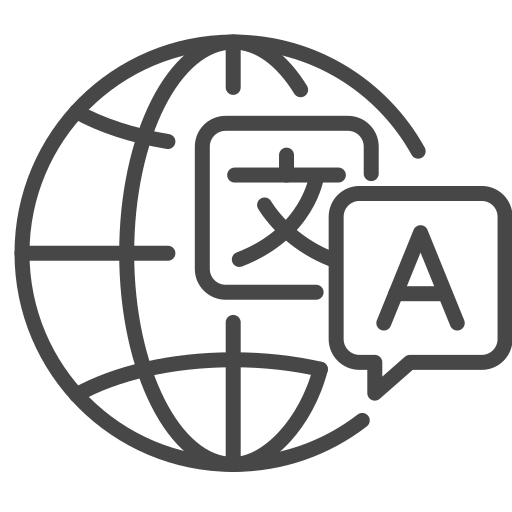
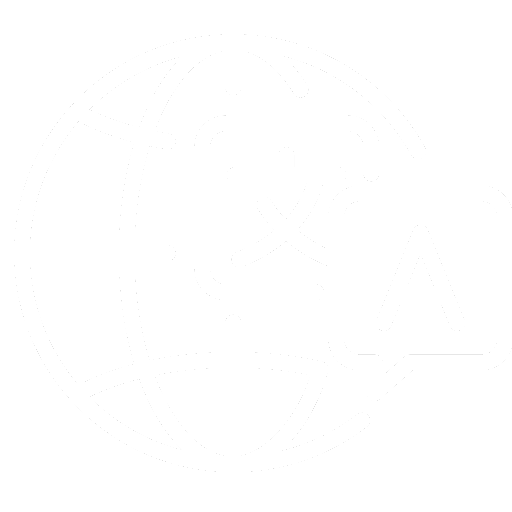
first update code day 7/4

Changed region(s): [[0.0, 0.0625, 1.0, 0.9375], [0.7188, 0.4375, 0.9062, 0.6562]]

diff --git a/style/stylesheet.css b/style/stylesheet.css
@@ -16,7 +16,7 @@
     color: #f47a3d !important;
 }
 body {
-    font-family: anton, system-ui !important;
+    font-family: munlish, system-ui !important;
 }
 a {
     text-decoration: none !important;
@@ -41,7 +41,7 @@ ul li{
     position: fixed;
     top: 0;
     width: 100%;
-    background-color: white;
+    background-color: black;
     transition: transform 0.3s ease-in-out;
     z-index: 1000;
 }
@@ -66,6 +66,9 @@ ul li{
     display: flex;
     justify-content: center;
     align-items: center;
+}
+.main-menu{
+    color: white;
 }
 .navItems{
     display: flex;
@@ -121,6 +124,7 @@ ul li{
         opacity: 0;
     }
     .nav-mobile-list ul li{
+        color: white;
         padding: 1em;
         font-weight: 600;
     }
@@ -129,7 +133,7 @@ ul li{
         color: white;
     }
     .nav-mobile-list ul li:not(:last-child){
-        border-bottom: 2px solid #2d2d2d;
+        border-bottom: 2px solid white;
     }
     .show_navmobile{
         transform: translateX(0);
@@ -145,7 +149,7 @@ ul li{
     .nav{
         height: 56px;
         padding: 0 30px;
-        justify-content: space-around;
+        justify-content: space-between;
     }
     .navItems{
         display: none;
@@ -154,12 +158,11 @@ ul li{
     }
     .navChild:first-child img{
         margin-left: 0;
-        height: 40px;
-        width: 130px;
+        height: 35px;
+        width: 120px;
     }
     .choose-language{
-        margin-left: auto;
-        margin-right: 1.5em;
+        display: none;
     }
     .nav-mobile{
         display: block;
@@ -181,15 +184,16 @@ ul li{
     .nav-mobile-list ul li{
         padding: 1em;
         font-weight: 600;
+        color: white;
     }
     .nav-mobile-list ul li:hover{
         background-color: #f47a3d;
-        color: white;
     }
     .nav-mobile-list ul li:not(:last-child){
-        border-bottom: 2px solid #2d2d2d;
+        border-bottom: 2px solid white;
     }
     .show_navmobile{
+        background-color: black;
         transform: translateX(0);
         opacity: 1;
     }
@@ -202,6 +206,9 @@ ul li{
 /*choose language start*/
 .show{
     display: block !important;
+}
+.choose-language{
+    color: white;
 }
 .choose-language ul{
     display: none;
@@ -239,6 +246,7 @@ ul li{
     display: flex;
     align-items: center;
     gap: .5rem;
+    color: white;
 }
 .choose-language a img:nth-child(2){
     width: 1.2rem;
@@ -257,8 +265,8 @@ ul li{
 /*Banner*/
 .banner{
     height: 100vh;
-    background: linear-gradient(rgba(0, 0, 0, 0.8), rgba(0, 0, 0, 0.8)),
-    url('/website-hap/image/team-meeting-1024x708.jpg') no-repeat center center/cover;
+    background: linear-gradient(rgba(0, 0, 0, 0.3), rgba(0, 0, 0, 0.3)),
+    url('/website-hap/image/banner.png') no-repeat center center/cover;
     color: white;
     display: flex;
     flex-direction: column;
@@ -273,7 +281,8 @@ ul li{
 }
 @media (max-width: 1023px) {
     .banner{
-        height: 29.375em;
+        height: 27.375em;
+        padding-top: 55px;
     }
     .bannerChild{
         padding: 1.5em;
@@ -492,6 +501,7 @@ svg{
     width: 100%;
     height: 100%;
     background-position-y:0;
+    background-color: black;
 }
 .why-choose-content-child-title{
     margin-bottom: 20px;
@@ -739,7 +749,7 @@ svg{
 .team-mate{
     width: 100%;
     height: 100%;
-    background-color: white;
+    background-color: black;
     position: relative;
     padding: 3em  10.9375em;
 }
@@ -781,6 +791,7 @@ svg{
     position: relative;
     z-index: 1;
     flex-shrink: 0;
+    border-radius: 10px;
 }
 .slide-teammate-img{
     height: 100%;
@@ -789,7 +800,7 @@ svg{
     width: 100%;
     height: 100%;
     object-fit: cover;
-    border-radius: 5px;
+    border-radius: 10px;
 }
 .item-slide-teammate:before{
     content: "";
@@ -801,12 +812,15 @@ svg{
     background-color: #f47a3d;
     transition: height 0.3s;
     z-index: -1;
+    border-radius: 10px;
 }
 .item-slide-teammate:hover{
     color: white;
+    border-radius: 10px;
 }
 .item-slide-teammate:hover:before{
     height: 100%;
+    border-radius: 10px;
 }
 /*our team mate responsive mobile and tablet*/
 /*tablet*/
@@ -856,7 +870,7 @@ svg{
     width: 100%;
     height: 75vh;
     background: linear-gradient(rgba(0, 0, 0, 0.7), rgba(0, 0, 0, 0.7)),
-    url(/website-hap/image/bg-h4.png) no-repeat center center / cover;
+    url(/website-hap/image/backgroungbanner2.png) no-repeat center center / cover;
     padding: 3em;
 }
 .banner-content-child{
@@ -897,7 +911,7 @@ svg{
         height: 18.5875em;
     }
     .banner-content-child-text h3{
-        font-size: 30px;
+        font-size: 23px;
     }
     .banner-content-child-button button{
         height: 45px;
@@ -912,8 +926,7 @@ svg{
     width: 100%;
     height: 100%;
     padding: 5em 0;
-    background: linear-gradient(rgba(0, 0, 0, 0.7), rgba(0, 0, 0, 0.7)),
-    url(/website-hap/image/bachgrow-sevice.png) no-repeat center center / cover;
+    background-color: #000000;
 }
 .container-about{
     width: 100%;
@@ -1015,6 +1028,7 @@ svg{
     padding: 64px 7.1875em;
     display: flex;
     justify-content: center;
+    background-color: #101010;
 }
 .container-support{
     max-width: 1290px;
@@ -1036,7 +1050,7 @@ svg{
 }
 .name-list-tech{
     height: 100%;
-    background-color: #F6F7FC;
+    background-color: #6d3c21;
     padding: 14px 24px;
     display: flex;
     align-items: center;
@@ -1050,6 +1064,7 @@ svg{
     transition: all 300ms ease 0ms;
 }
 .name-list-tech h3{
+    color: white;
     margin-bottom: 0;
     font-size: 14px;
     font-weight: 700;
@@ -1068,11 +1083,11 @@ svg{
     display: flex;
     align-items: center;
     justify-content: center;
-    background-color: #F6F7FC;
+    background-color: #581f00eb;
     height: 80px;
     margin: 0 2px;
     padding: 20px;
-    filter: grayscale(1);
+    filter: grayscale(0.5);
     min-width: 141px;
     max-width: 141px;
 }
@@ -1165,10 +1180,10 @@ background-color: #f7b56b;
     flex-wrap: wrap;
     justify-content: center;
     align-items: center;
-    margin-bottom: 1em;
+    margin-bottom: 0.2em;
 }
 .text-service:last-child{
-    margin: auto;
+    margin-top: auto;
 }
 .img-container-service:nth-child(2){
     display: none;
@@ -1195,9 +1210,6 @@ background-color: #f7b56b;
     .text-service:last-child{
         padding-left: 10px;
     }
-    .text-service h1{
-        margin-bottom: 0;
-    }
     .text-service h1 span{
         font-weight: 800;
         font-size: 1.25rem;
@@ -1208,7 +1220,7 @@ background-color: #f7b56b;
     width: 100%;
     height: 100%;
     padding: 60px  0;
-    margin-bottom: 1em;
+    background: linear-gradient(180deg, #7c3c23, #000000);
 }
 .item-container-certifications:first-child{
     padding: 0 20px 3em 0;
@@ -1250,7 +1262,7 @@ background-color: #f7b56b;
     margin-top: 3em;
     width: 100%;
     display: flex;
-    justify-content: space-between;
+    justify-content: space-around;
 }
 .item-card-certifications{
     padding: 1em 0.5em;

diff --git a/index.html b/index.html
@@ -14,7 +14,7 @@
     <div class="component-nav">
         <nav class="nav" id="navbar">
             <div class="navChild ms-0">
-                <a href="index.html"><img src="image/Logo HAP.jpg" alt="logo"></a>
+                <a href="index.html"><img src="image/icon-logo-colorWhite.png" alt="logo"></a>
             </div>
             <div class="navChild ms-0 my-auto">
                 <ul class="navItems">
@@ -136,7 +136,7 @@
                 <div class="support-child-title">
                     <p class="name-box line-namebox">TECH STACK</p>
                     <div class="support-child-content-title">
-                        <h1 class="title ">Crafting Excellence with Our <br> Technology Stack</h1>
+                        <h1 class="title text-light ">Crafting Excellence with Our <br> Technology Stack</h1>
                     </div>
                 </div>
                 <div class="support-child-list-tech">
@@ -384,14 +384,14 @@
                 </div>
             </div>
         </div>
-</section>
+    </section>
 <!--    WHY CHOOSE US   -->
     <div class="why-choose-company">
         <div class="why-choose-content container">
             <div class="why-choose-content-child">
                 <p class="name-box line-namebox">WHY CHOOSE US</p>
                 <div class="why-choose-content-child-title">
-                    <h5 class="title ">Services We Offer</h5>
+                    <h5 class="title text-light">Services We Offer</h5>
                 </div>
             </div>
             <div class="why-choose-content-child">
@@ -447,8 +447,8 @@
         <div class="container-certifications container">
             <div class="item-container-certifications col-12 col-lg-6">
                 <div class="text-certifications">
-                    <h1 class="fw-bold">Certifications</h1>
-                    <p>A presentation is a formal talk, often delivered in front of an audience, aimed at conveying information, persuading others, or sharing insights on a particular topic. Presentations can take various forms, such as verbal speeches, slideshows, demonstrations, or multimedia displays. gage the audience and effectively convey the intended message.</p>
+                    <h1 class="fw-bold text-light">Certifications</h1>
+                    <p class="text-light">A presentation is a formal talk, often delivered in front of an audience, aimed at conveying information, persuading others, or sharing insights on a particular topic. Presentations can take various forms, such as verbal speeches, slideshows, demonstrations, or multimedia displays. gage the audience and effectively convey the intended message.</p>
                 </div>
                 <div class="card-certifications">
                     <div class="item-card-certifications">
@@ -494,7 +494,7 @@
         <div class="content-teammate">
             <div class="title-content-teammate">
                 <p class="name-box txt-center line-namebox">OUR TEAM MATE</p>
-                <h4 class="title txt-center">Experts Ready to Served</h4>
+                <h4 class="title txt-center text-light">Experts Ready to Served</h4>
             </div>
             <div class="slide-teammate" id="slide-teammate">
                 <div class="item-slide-teammate">
